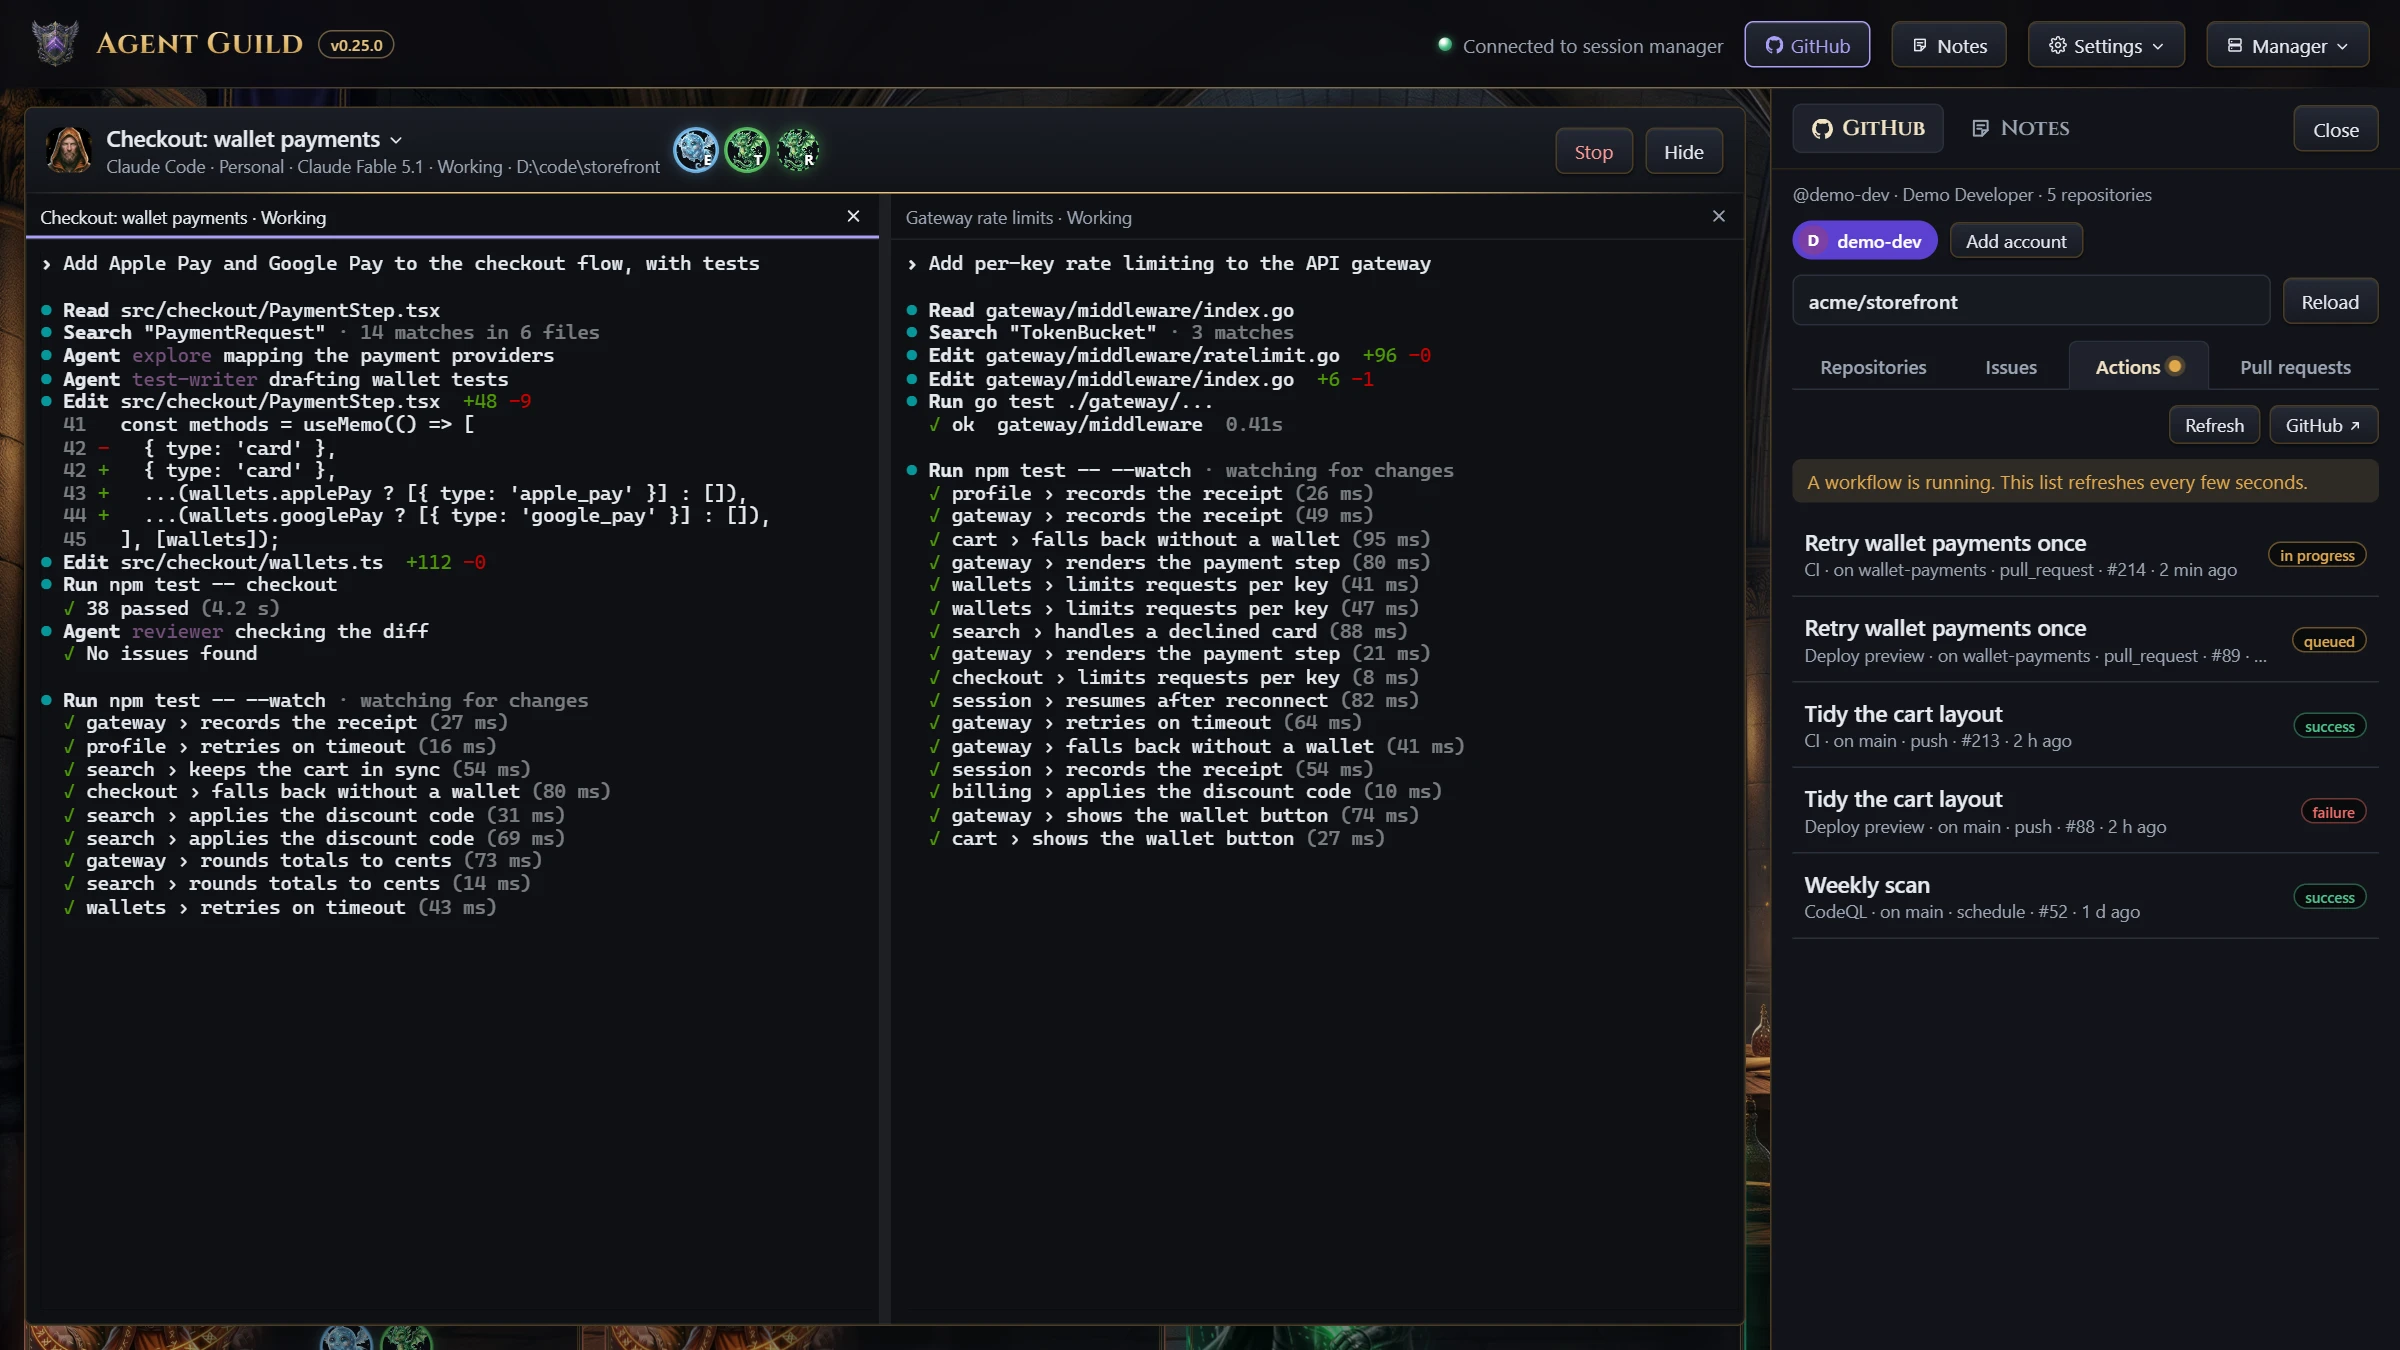
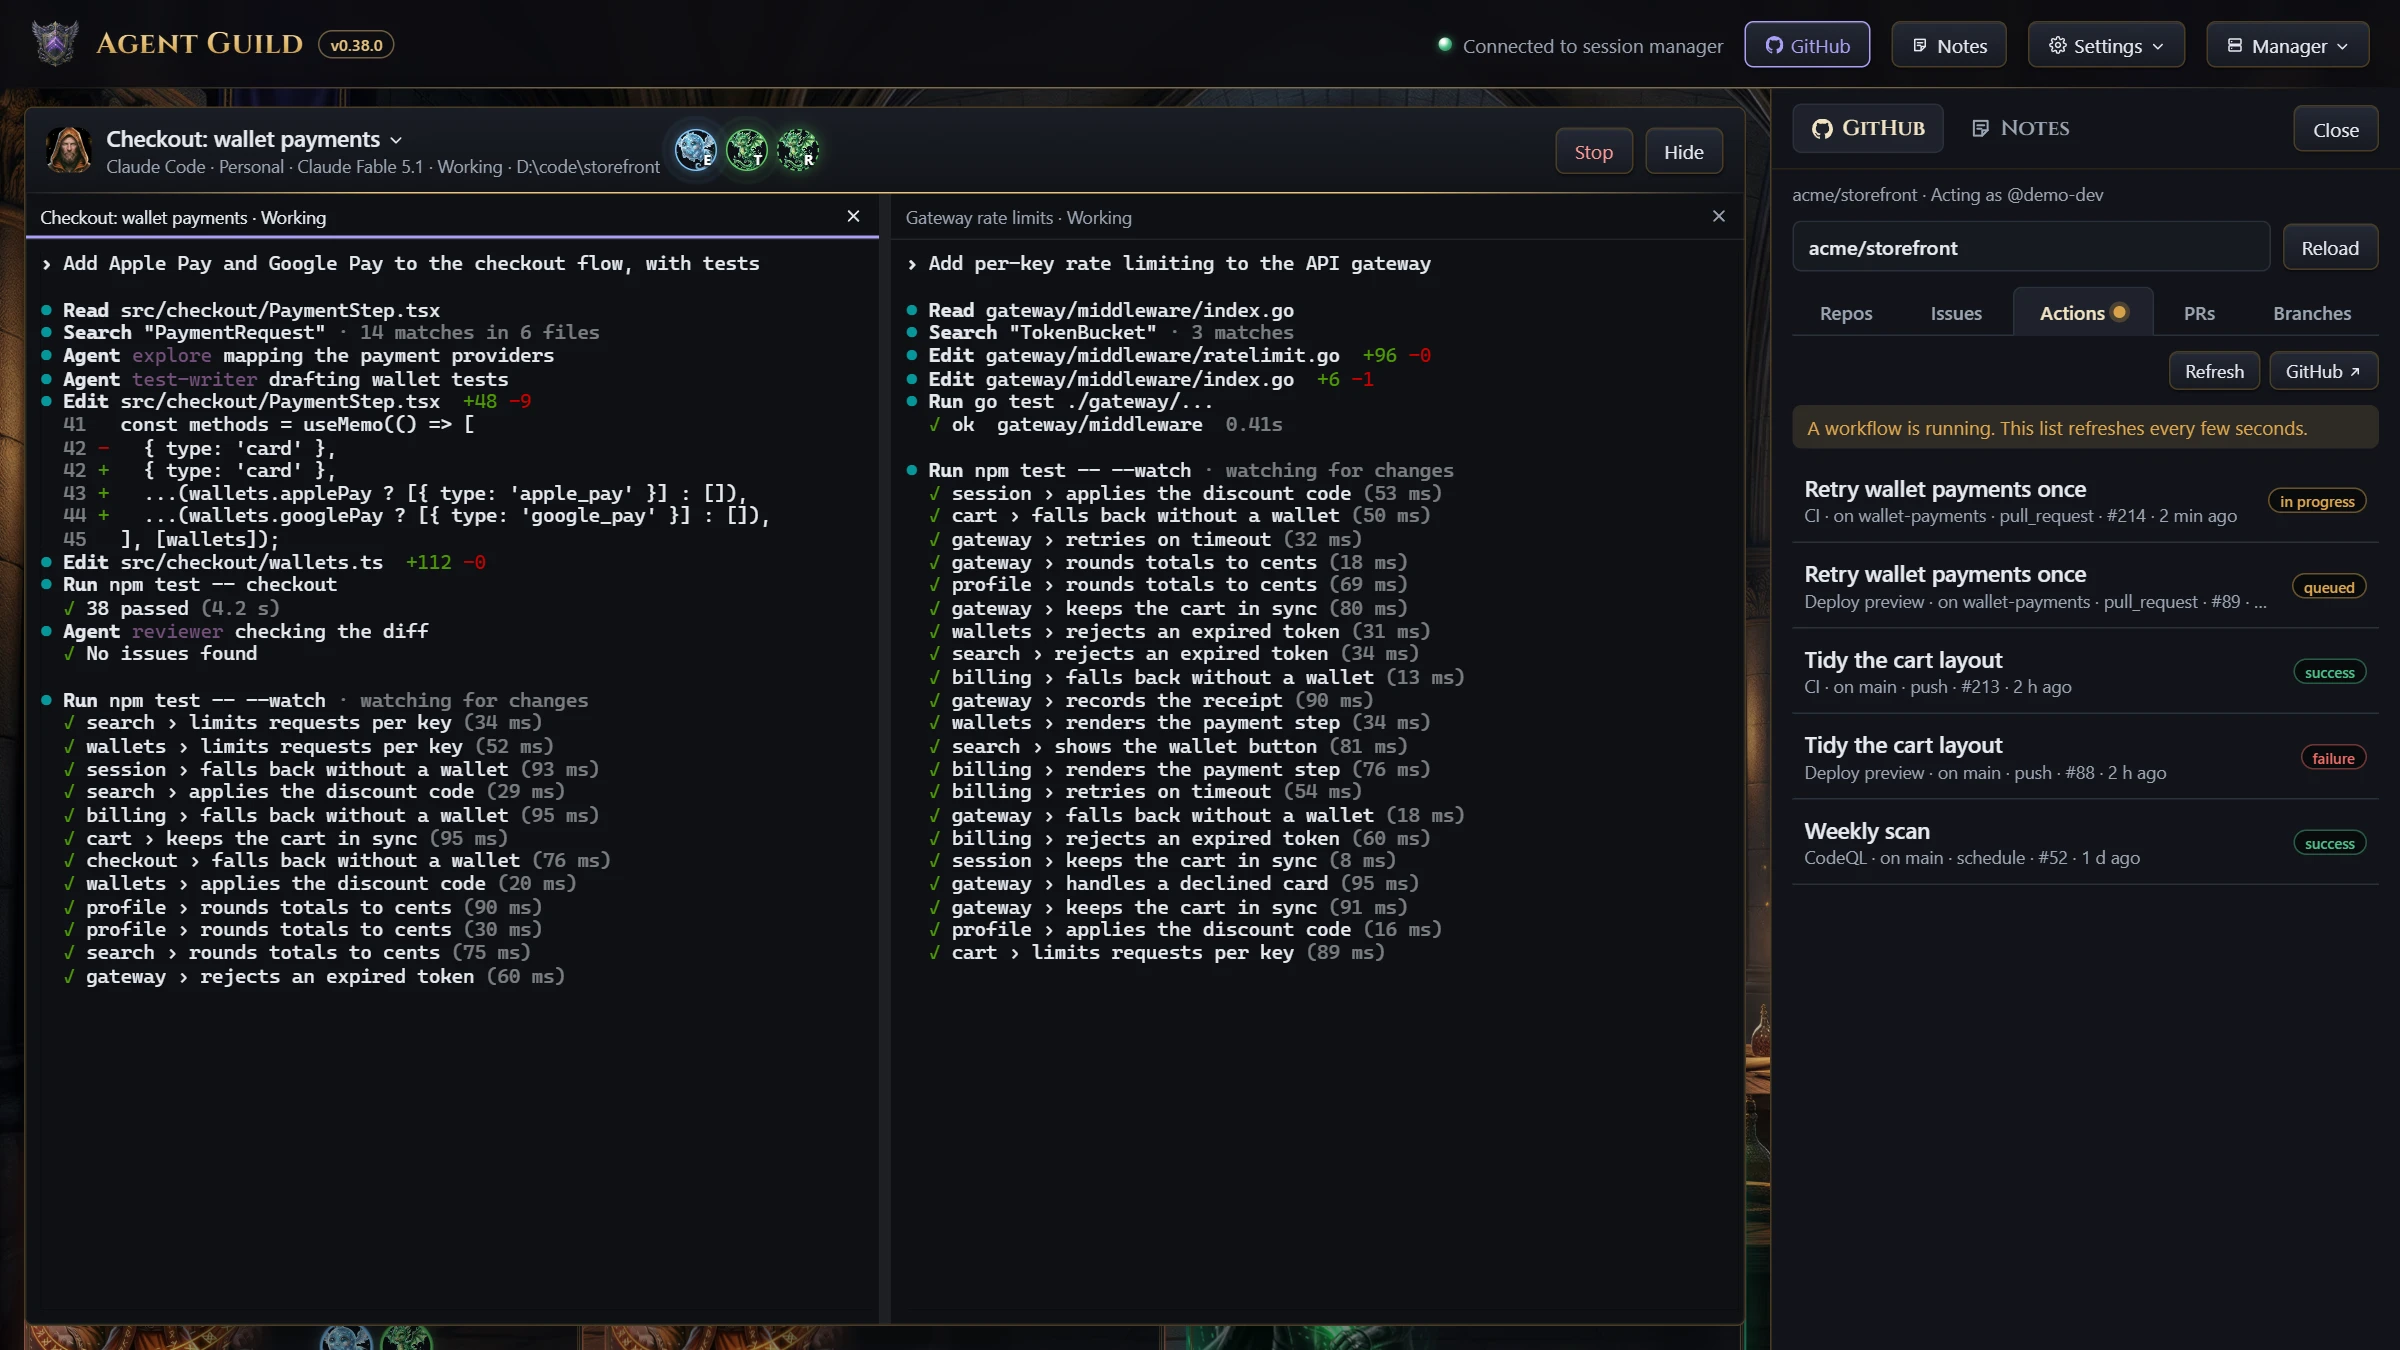
docs: show the Yard and recent features in the README (#149)
Adds a Yard screenshot, captured by docs/capture/capture.mjs above the
live news strip, and recaptures the overview and workspace shots on
0.38.0. The feature list gains the manager environment and starting at
sign-in, and Quick start names the Node.js version before the install.

diff --git a/README.md b/README.md
@@ -25,6 +25,8 @@ Close the page whenever you like; the sessions keep running.
 
 ## Quick start
 
+With Node.js 22 or newer:
+
 ```sh
 npm install -g @oddessentials/agent-guild
 agent-guild
@@ -127,11 +129,16 @@ The first Claude Code usage meter may ask for access to the
 * Model grades and benchmarks for each tool's models
 * Resume a tool's earlier sessions with **Existing…**
 * GitHub issues, pull requests, workflow runs, branches and cloning
+* The manager's environment on the Shell card: runtimes, design tools,
+  Docker, and the versions a project pins
+* Start the manager when you sign in, on Windows, macOS and Linux
 * Shared notes, a news feed, six skins, light and dark mode
-* A Yard view of the same providers and sessions, with a world for every skin ([the yard](docs/yard/README.md))
+* The Yard: your tools and sessions as a 3D world, one for each skin
 * tmux and herdr sessions that keep running when the manager stops
 
 <img src="docs/images/workspace.webp" alt="Two terminals side by side with the GitHub panel showing the workflow runs of the focused terminal's repository">
+
+<img src="docs/images/yard.webp" alt="The Guild Yard: a 3D courtyard with a hall for each coding tool, its sessions' characters outside, and the roster and inspector beside it">
 
 ## Commands
 
